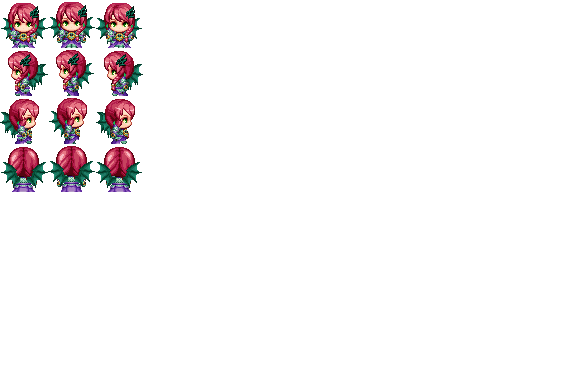
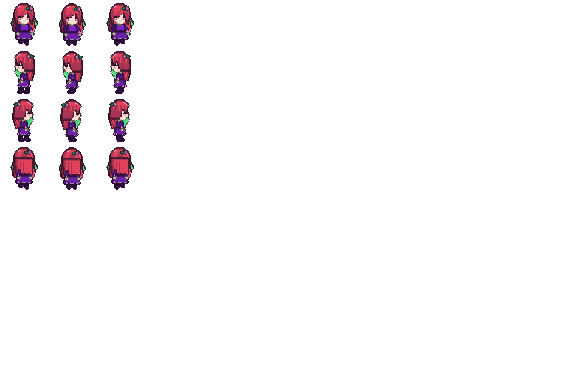
Новые утверждённые спрайты: герои и NPC 48×60 (heroes_atlas, рантайм HD, ?herosd=1 — старый), chars_atlas 24×24, bestiary/mobs атласы, Кейт и Дар; build_hero_atlases.py; плейтест sprites

Changed region(s): [[0.0, 0.0, 0.25, 0.5]]

diff --git a/tools/playtest/sprites.js b/tools/playtest/sprites.js
@@ -1,0 +1,63 @@
+// Новые спрайты (утверждены 2026-10): герои 48×60 (heroes_atlas), NPC 48×60, мобы (bestiary_atlas v3), Кейт/Дар.
+// Скриншоты на полной странице: ПК + телефон. NODE_PATH=<playwright-core> node tools/playtest/sprites.js
+const { chromium, devices } = require('playwright-core');
+const OUT = process.env.OUT || '/workspace/morrisgrad-round2';
+(async () => {
+  const b = await chromium.launch({ executablePath: '/usr/bin/google-chrome', args: ['--use-gl=swiftshader', '--enable-unsafe-swiftshader', '--ignore-gpu-blocklist'] });
+  let pass = 0, fail = 0; const errs = [], warns = [];
+  const ok = (c, m) => { if (c) pass++; else fail++; console.log((c ? 'PASS ' : 'FAIL ') + m); };
+  const T = Date.now();
+  const open = async (n, uid, ctxOpts = { viewport: { width: 1440, height: 860 } }) => {
+    const p = await (await b.newContext(ctxOpts)).newPage();
+    p.on('pageerror', (e) => errs.push(n + ' ' + String(e.stack || e)));
+    p.on('console', (m) => { if (/\[pix\]|атлас/.test(m.text())) warns.push(m.text()); });
+    await p.goto(`http://127.0.0.1:5199/game.html?name=${n}&uid=${uid}&ws=ws://127.0.0.1:8787&fs=1&debug=1`);
+    await p.waitForFunction(() => window.__game?.state?.().mode === 'hub', null, { timeout: 90000 });
+    return p;
+  };
+  const G = (p, fn, a) => p.evaluate(fn, a);
+  const cls = ['spearman', 'rogue', 'mage', 'warrior'];
+  const ps = [];
+  for (let i = 0; i < 4; i++) { const p = await open(['Нофорд', 'Кавега', 'Мариэль', 'Велес'][i], `t_spr_${i}_${T}`); await G(p, (c) => window.__game.debug.selectClass(c), cls[i]); ps.push(p); }
+  for (let i = 0; i < 4; i++) await G(ps[i], (k) => window.__game.debug.teleport(560 + k * 45, 620), i);
+  await ps[0].waitForTimeout(3000);
+  ok(await G(ps[0], () => !!document.querySelector('canvas')), 'canvas');
+  await ps[0].screenshot({ path: `${OUT}/sprites-01-heroes-desktop.png` });
+  // атака/ходьба — кадры замах/удар и шаги
+  await ps[1].keyboard.down('KeyD'); await ps[1].waitForTimeout(500); await ps[0].screenshot({ path: `${OUT}/sprites-02-heroes-walk.png` }); await ps[1].keyboard.up('KeyD');
+  // Кейт (босс хаба) и NPC Петр/Кьют
+  await G(ps[0], () => window.__game.debug.teleport(700, 640)); await ps[0].waitForTimeout(2500);
+  await ps[0].screenshot({ path: `${OUT}/sprites-03-boss-keyt.png` });
+  await G(ps[0], () => window.__game.debug.teleport(600, 740)); await ps[0].waitForTimeout(2500);
+  await ps[0].screenshot({ path: `${OUT}/sprites-04-npc-petr-kyut.png` });
+  // Аринар: мобы + NPC Алзи/Лэйр
+  const p = ps[0];
+  for (let i = 0; i < 8 && (await G(p, () => window.__game.state().world)) !== 'arinar'; i++) {
+    await G(p, () => window.__game.debug.teleport(240, 600)); await p.waitForTimeout(700);
+    await G(p, () => window.__game.debug.rawSend({ type: 'use_portal', portalId: 'portal_arinar' })); await p.waitForTimeout(1200);
+  }
+  ok(await G(p, () => window.__game.state().world) === 'arinar', 'in Arinar');
+  await G(p, () => window.__game.debug.teleport(430, 620)); await p.waitForTimeout(3000);
+  await p.screenshot({ path: `${OUT}/sprites-05-npc-alzi-leyr.png` });
+  const mobs = await G(p, () => window.__game.debug.zoneMobs());
+  ok(mobs.length > 0, `zone mobs: ${mobs.length}`);
+  if (mobs.length) { const m = mobs[Math.floor(mobs.length / 2)]; await G(p, (q) => window.__game.debug.teleport(q.x - 60, q.y), m); await p.waitForTimeout(3000); }
+  await p.screenshot({ path: `${OUT}/sprites-06-mobs.png` });
+  const far = mobs.filter((m) => m.type && m.type.includes('king') || m.type.includes('boss'))[0] || mobs[mobs.length - 1];
+  if (far) { await G(p, (q) => window.__game.debug.teleport(q.x - 60, q.y), far); await p.waitForTimeout(3000); }
+  await p.screenshot({ path: `${OUT}/sprites-07-mobs-2.png` });
+  // телефон
+  const M = await open('Мобила', `t_spr_m_${T}`, { ...devices['Pixel 7'] });
+  await G(M, () => window.__game.debug.selectClass('mage')); await G(M, () => window.__game.debug.teleport(600, 650)); await M.waitForTimeout(3500);
+  await M.screenshot({ path: `${OUT}/sprites-08-mobile-heroes.png` });
+  await G(M, () => window.__game.debug.teleport(640, 760)); await M.waitForTimeout(2500);
+  await M.screenshot({ path: `${OUT}/sprites-09-mobile-npc-boss.png` });
+  // забег: орда из bestiary_atlas
+  await G(ps[2], () => window.__game.startRun('crypt')); await ps[2].waitForFunction(() => window.__game.state().mode === 'run', null, { timeout: 30000 }).catch(() => {});
+  await ps[2].waitForTimeout(12000);
+  ok(await G(ps[2], () => window.__game.state().mode) === 'run', 'run started');
+  await ps[2].screenshot({ path: `${OUT}/sprites-10-run-horde.png` });
+  ok(warns.length === 0, 'no atlas load warnings' + (warns[0] ? ': ' + warns[0] : ''));
+  ok(errs.length === 0, 'no page errors' + (errs.length ? ': ' + errs[0].slice(0, 300) : ''));
+  console.log(`${pass} passed, ${fail} failed`); await b.close(); process.exit(fail ? 1 : 0);
+})();

diff --git a/src/pages/MorrisCurse/_core/engine/pixSprites.js b/src/pages/MorrisCurse/_core/engine/pixSprites.js
@@ -4,6 +4,7 @@
 // mobs_atlas.png — строка = тип врага, ячейка 48×48, 12 колонок: 0–3 ход, 4–6 атака, 7 урон, 8–11 распад.
 // Оба листа генерируются скриптами tools/mc-sprites/ (см. README там же).
 import charsSrc from '../../../../assets/mc/chars_atlas.png';
+import heroesHdSrc from '../../../../assets/mc/heroes_atlas.png';
 import { GRADE } from './atmosphere.js';
 import mobsSrc from '../../../../assets/mc/mobs_atlas.png';
 import projSrc from '../../../../assets/mc/proj_atlas.png';
@@ -15,7 +16,12 @@ const url = (s) => (typeof s === 'object' && s !== null ? (s.src || s.default?.s
 export const PX_PER_M = 10;
 export const HERO_ROWS = { spearman: 0, rogue: 1, mage: 2, warrior: 3 };
 export const NPC_ROWS = { alzi: 4, leyr: 5, petr: 6, kyut: 7 };
-export const HERO_CELL = { w: 24, h: 24, cols: 24, rows: 8 };
+// heroes_atlas.png — те же строки и кадры в ячейке 48×60 (утверждённые листы 2026-10, tools/mc-sprites/build_hero_atlases.py).
+// По умолчанию — HD-атлас (фигура ≈57 px из 60 → рост 2.1 м, как у 21 px из 24 в старом); ?herosd=1 / localStorage mc-hero-sd=1 — старый 24×24.
+const SD = typeof location !== 'undefined' && (/[?&]herosd=1/.test(location.search) || (typeof localStorage !== 'undefined' && localStorage.getItem('mc-hero-sd') === '1'));
+export const HERO_HD = !SD;
+export const HERO_CELL = HERO_HD ? { w: 48, h: 60, cols: 24, rows: 8 } : { w: 24, h: 24, cols: 24, rows: 8 };
+export const HERO_H_M = HERO_HD ? 2.2 : 2.4; // высота билборда, м
 export const HERO_FRAMES = 6;
 export const MOB_CELL = { w: 48, h: 48, cols: 12, rows: 14 };
 export const MOB_ROWS = { imp: 0, bat: 1, ghoul: 2, spitter: 3, golem: 4, warden: 5, blade_fly: 6, dream_moth: 7, rot_glitch: 8, moon_sentinel: 9, alzi: 10, leyr: 11, petr: 12, kyut: 13, kyut_mirror: 13 };
@@ -35,7 +41,7 @@ let loading = null;
 export function loadPixAtlases(THREE) {
   if (loading) return loading;
   loading = Promise.all([
-    loadAtlasTexture(THREE, url(charsSrc)).then((t) => { atlases.heroes = t; }).catch((e) => console.warn('[pix]', e.message)),
+    loadAtlasTexture(THREE, url(HERO_HD ? heroesHdSrc : charsSrc)).then((t) => { atlases.heroes = t; }).catch((e) => console.warn('[pix]', e.message)),
     loadAtlasTexture(THREE, url(mobsSrc)).then((t) => { atlases.mobs = t; }).catch((e) => console.warn('[pix]', e.message)),
     loadAtlasTexture(THREE, url(projSrc)).then((t) => { atlases.proj = t; }).catch((e) => console.warn('[pix]', e.message)),
   ]).then(() => atlases);
@@ -71,7 +77,7 @@ export class PixCharacter {
     const mat = new THREE.SpriteMaterial({ map: tex, transparent: true, alphaTest: 0.3, toneMapped: false });
     const sp = new THREE.Sprite(mat);
     sp.center.set(0.5, 0);
-    const h = isLook ? (MOB_HEIGHT[this.mobType] || 2) : HERO_CELL.h / PX_PER_M;
+    const h = isLook ? (MOB_HEIGHT[this.mobType] || 2) : HERO_H_M;
     sp.scale.set(h * (cell.w / cell.h), h, 1);
     this.sprite = sp;
     this.lift = isLook ? (MOB_FLYING[this.mobType] || 0) : 0;

diff --git a/src/pages/MorrisCurse/_core/hub/zoneView.js b/src/pages/MorrisCurse/_core/hub/zoneView.js
@@ -5,7 +5,7 @@ import { SpriteBatch, loadAtlasTexture } from '../engine/spriteBatch.js';
 import propsSrc from '../../../../assets/mc/props_atlas.png';
 import propsMeta from '../../../../assets/mc/props_atlas.json';
 import { BEAST_ROW, BEAST_H, beastTop as BEAST_TOP, beastFlying, loadBeastBatch } from '../engine/beastSprites.js';
-import { pixAtlases, MOB_CELL, MOB_ROWS, MOB_HEIGHT, MOB_FLYING } from '../engine/pixSprites.js';
+import { pixAtlases, MOB_CELL, MOB_ROWS, MOB_HEIGHT, MOB_FLYING, HERO_HD, HERO_CELL, HERO_H_M, NPC_ROWS } from '../engine/pixSprites.js';
 import { mergeParts, flatMat, toX, toZ } from '../engine/geometry.js';
 import {
   MOB_INFO as ZONE_MOBS, NPCS, NPC_RANGE, GATHER_RANGE, GATHER_TIME_MS, ZONE_ATTACK_RANGE, RESOURCES, WEAPON_TYPES, CLASS_WTYPE,
@@ -38,6 +38,11 @@ export class ZoneView {
     if (at.mobs) {
       this.batch = new SpriteBatch(THREE, at.mobs, { cellW: MOB_CELL.w, cellH: MOB_CELL.h, cols: MOB_CELL.cols, rows: MOB_CELL.rows, max: 256 });
       this.root.add(this.batch.mesh);
+    }
+    // NPC мира — утверждённые листы 48×60 (строки 4–7 heroes_atlas, 4 направления × 6 кадров), дыхание на месте
+    if (HERO_HD && at.heroes) {
+      this.npcBatch = new SpriteBatch(THREE, at.heroes, { cellW: HERO_CELL.w, cellH: HERO_CELL.h, cols: HERO_CELL.cols, rows: HERO_CELL.rows, max: 16 });
+      this.root.add(this.npcBatch.mesh);
     }
     const decal = (geo, cap, op) => {
       const im = new THREE.InstancedMesh(geo, new THREE.MeshBasicMaterial({ color: 0xffffff, transparent: true, opacity: op, depthWrite: false, side: THREE.DoubleSide }), cap);
@@ -258,10 +263,21 @@ export class ZoneView {
       // NPC мира
       for (const [id, n] of Object.entries(NPCS)) {
         if (n.world !== world || MOB_ROWS[id] === undefined) continue;
+        if (this.npcBatch && NPC_ROWS[id] !== undefined) continue; // рисует npcBatch (HD)
         B.push(toX(n.x), 0, toZ(n.y), MOB_HEIGHT[id] || 2.5, (Math.floor(T * 2.5 + n.x) & 3), MOB_ROWS[id], false, 1, 1, 1, 0, 1);
         atmo.shadow(toX(n.x), toZ(n.y), 0.6);
       }
       B.end();
+    }
+    const NPB = this.npcBatch;
+    if (NPB) {
+      NPB.begin();
+      for (const [id, n] of Object.entries(NPCS)) {
+        if (n.world !== world || NPC_ROWS[id] === undefined) continue;
+        NPB.push(toX(n.x), 0, toZ(n.y), HERO_H_M * 1.08, (Math.floor(T * 1.25 + n.x) & 1) ? 3 : 1, NPC_ROWS[id], false, 1, 1, 1, 0, 1);
+        atmo.shadow(toX(n.x), toZ(n.y), 0.6);
+      }
+      NPB.end();
     }
     // ресурсы: готовые — светятся и покачиваются
     const NB = this.nodeBatch;

diff --git a/tools/mc-sprites/build_hero_atlases.py b/tools/mc-sprites/build_hero_atlases.py
@@ -1,0 +1,27 @@
+"""Сборка атласов героев/NPC из утверждённых листов (Алекс, 2026-10-14).
+Вход: /workspace/sprites/<hero>_{24x24,48x60}.png, /workspace/mobs_new/npc/<npc>_{24x24,48x60}.png,
+      /workspace/mobs_new/legacy/chars_atlas.png (база: строки NPC 4–7).
+Лист героя: 4 строки (вниз, влево, вправо, вверх) × 6 колонок (шаг A, стойка, шаг B, вдох, замах, удар).
+Выход: src/assets/mc/chars_atlas.png (24×24, 24 кол × 8 строк) и heroes_atlas.png (48×60, 24 кол × 8 строк):
+строки spearman=nofford, rogue=kavega, mage=mariel, warrior=veles, alzi, leyr, petr, kyut."""
+import os, sys
+from PIL import Image
+SP = os.environ.get('SPRITES', '/workspace/sprites'); NPC = os.environ.get('NPCS', '/workspace/mobs_new/npc')
+BASE = os.environ.get('CHARS_BASE', '/workspace/mobs_new/legacy/chars_atlas.png')
+OUT = os.path.join(os.path.dirname(__file__), '../../src/assets/mc')
+ROWS = [(SP, 'nofford'), (SP, 'kavega'), (SP, 'mariel'), (SP, 'veles'), (NPC, 'alzi'), (NPC, 'leyr'), (NPC, 'petr'), (NPC, 'kyut')]
+def build(cw, ch, suffix, base=None):
+    atlas = Image.open(base).convert('RGBA') if base else Image.new('RGBA', (cw * 24, ch * 8), (0, 0, 0, 0))
+    assert atlas.size == (cw * 24, ch * 8), atlas.size
+    for r, (d, name) in enumerate(ROWS):
+        p = os.path.join(d, f'{name}_{suffix}.png')
+        if not os.path.exists(p): print('нет', p); continue
+        sh = Image.open(p).convert('RGBA'); assert sh.size == (cw * 6, ch * 4), (p, sh.size)
+        atlas.paste(Image.new('RGBA', (cw * 24, ch), (0, 0, 0, 0)), (0, r * ch))
+        for di in range(4):
+            for f in range(6):
+                atlas.paste(sh.crop((f * cw, di * ch, (f + 1) * cw, (di + 1) * ch)), ((di * 6 + f) * cw, r * ch))
+    return atlas
+build(24, 24, '24x24', BASE).save(os.path.join(OUT, 'chars_atlas.png'))
+build(48, 60, '48x60').save(os.path.join(OUT, 'heroes_atlas.png'))
+print('ok')
